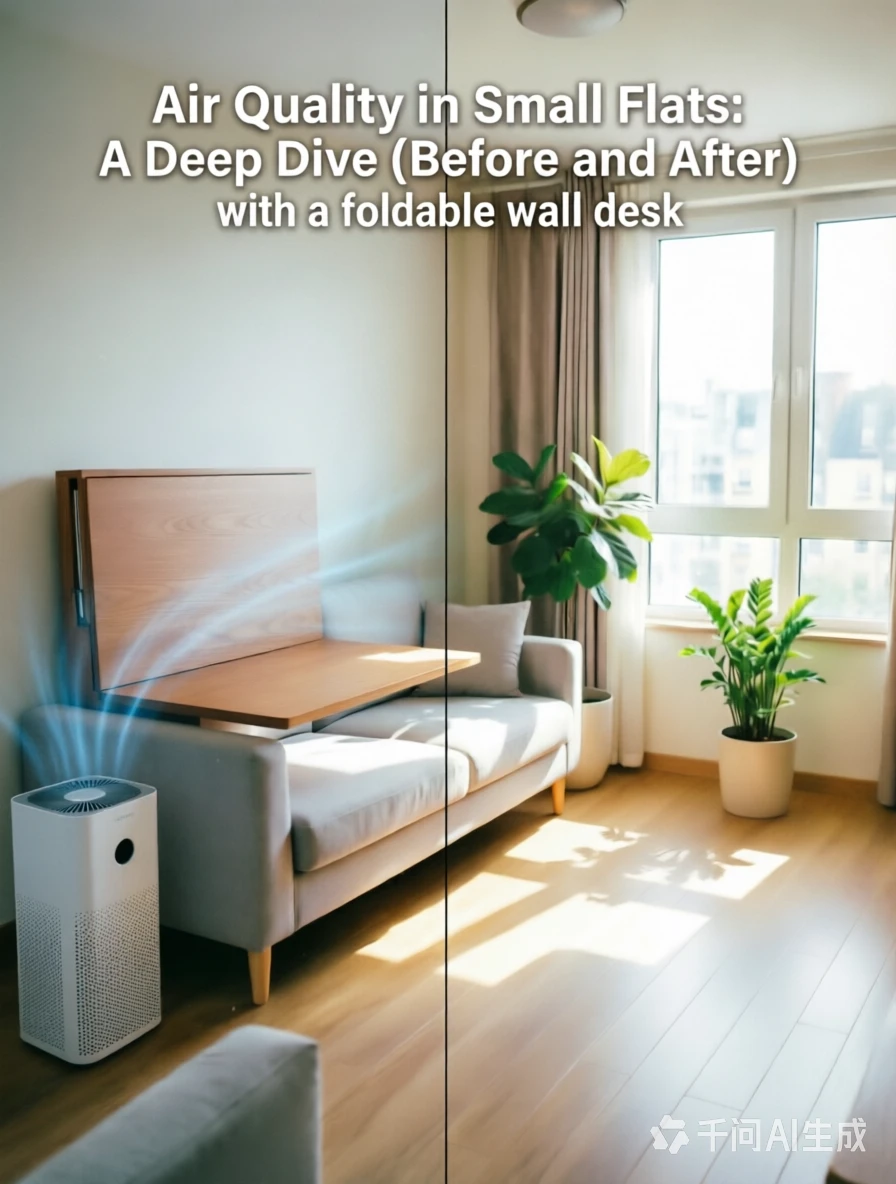
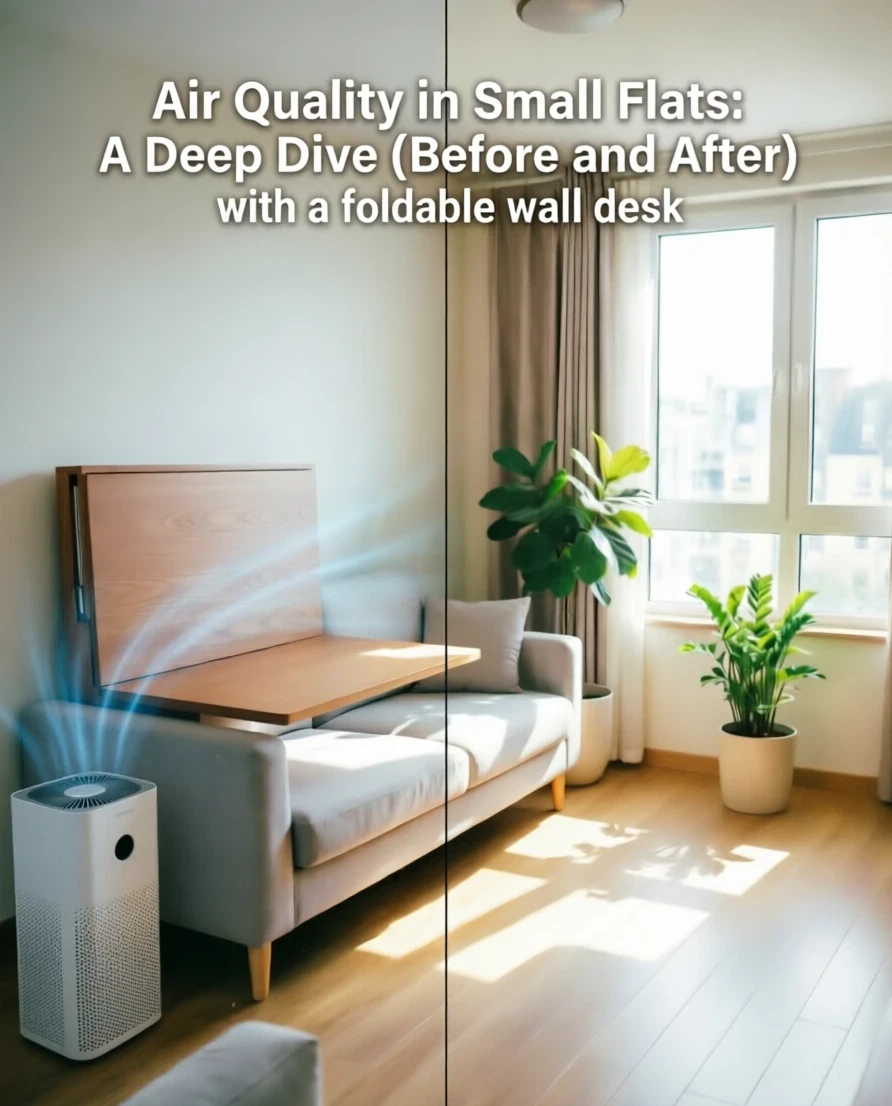
更新图片

diff --git a/public/tags/page/4/index.html b/public/tags/page/4/index.html
@@ -359,7 +359,7 @@
   <div class="excerpt">
     <div class="excerpt_header">
       <h3 class="post_link">
-        <a href="http://localhost:1313/tags/space-saving/" title="Space-Saving">Space-Saving</a>
+        <a href="http://localhost:1313/tags/space-saving/" title="Space Saving">Space Saving</a>
       </h3>
       
   <div class="post_meta">
@@ -375,14 +375,14 @@
     <span class="page_only">&nbsp;·
   <div class="post_share">
     Share on:
-    <a href="https://twitter.com/intent/tweet?text=Space-Saving&url=http%3a%2f%2flocalhost%3a1313%2ftags%2fspace-saving%2f&tw_p=tweetbutton" class="twitter" title="Share on Twitter" target="_blank" rel="nofollow">
+    <a href="https://twitter.com/intent/tweet?text=Space%20Saving&url=http%3a%2f%2flocalhost%3a1313%2ftags%2fspace-saving%2f&tw_p=tweetbutton" class="twitter" title="Share on Twitter" target="_blank" rel="nofollow">
       <svg class="icon">
   <title>twitter</title>
   <use xlink:href="#twitter"></use>
 </svg>
 
     </a>
-    <a href="https://www.facebook.com/sharer.php?u=http%3a%2f%2flocalhost%3a1313%2ftags%2fspace-saving%2f&t=Space-Saving" class="facebook" title="Share on Facebook" target="_blank" rel="nofollow">
+    <a href="https://www.facebook.com/sharer.php?u=http%3a%2f%2flocalhost%3a1313%2ftags%2fspace-saving%2f&t=Space%20Saving" class="facebook" title="Share on Facebook" target="_blank" rel="nofollow">
       <svg class="icon">
   <title>facebook</title>
   <use xlink:href="#facebook"></use>

diff --git a/public/tags/space-saving/index.html b/public/tags/space-saving/index.html
@@ -7,7 +7,7 @@
   
   >
   <head><script src="/livereload.js?mindelay=10&amp;v=2&amp;port=1313&amp;path=livereload" data-no-instant defer></script>
-<title>Space-Saving | Tinyflathacks</title>
+<title>Space Saving | Tinyflathacks</title>
 <meta charset="utf-8">
 
 <meta name="viewport" content="width=device-width, initial-scale=1.0, maximum-scale=1.0, user-scalable=no">
@@ -20,10 +20,10 @@
 <meta name="description" content="" />
 <meta name="twitter:card" content="summary" />
 <meta name="twitter:creator" content="">
-<meta name="twitter:title" content="Space-Saving" />
+<meta name="twitter:title" content="Space Saving" />
 <meta name="twitter:image" content="http://localhost:1313/"/>
 <meta property="og:url" content="http://localhost:1313/tags/space-saving/" />
-<meta property="og:title" content="Space-Saving" />
+<meta property="og:title" content="Space Saving" />
 <meta property="og:description" content="" />
 <meta property="og:image" content="http://localhost:1313/" />
 

diff --git a/public/posts/air-quality-deep-dive-small-flat-uk/index.html b/public/posts/air-quality-deep-dive-small-flat-uk/index.html
@@ -241,7 +241,7 @@
       alt="Clean room with air purifier and clear window"
       
         class="image_figure image_internal image_unprocessed"
-        src="http://localhost:1313/image_873475557800810.webp"
+        src="http://localhost:1313/image_480044155575938.webp"
       
       
     />

diff --git a/content/posts/air-quality-deep-dive-small-flat-uk.md b/content/posts/air-quality-deep-dive-small-flat-uk.md
@@ -52,7 +52,7 @@ I didn't realise all of this was connected until I started measuring.
 
 I didn't just buy one thing and hope for the best. I approached it like a mini project. Each change solved a specific problem.
 
-![Clean room with air purifier and clear window](/image_873475557800810.webp)
+![Clean room with air purifier and clear window](/image_480044155575938.webp)
 
 Here's the exact setup I ended up with, and why each piece matters.
 
